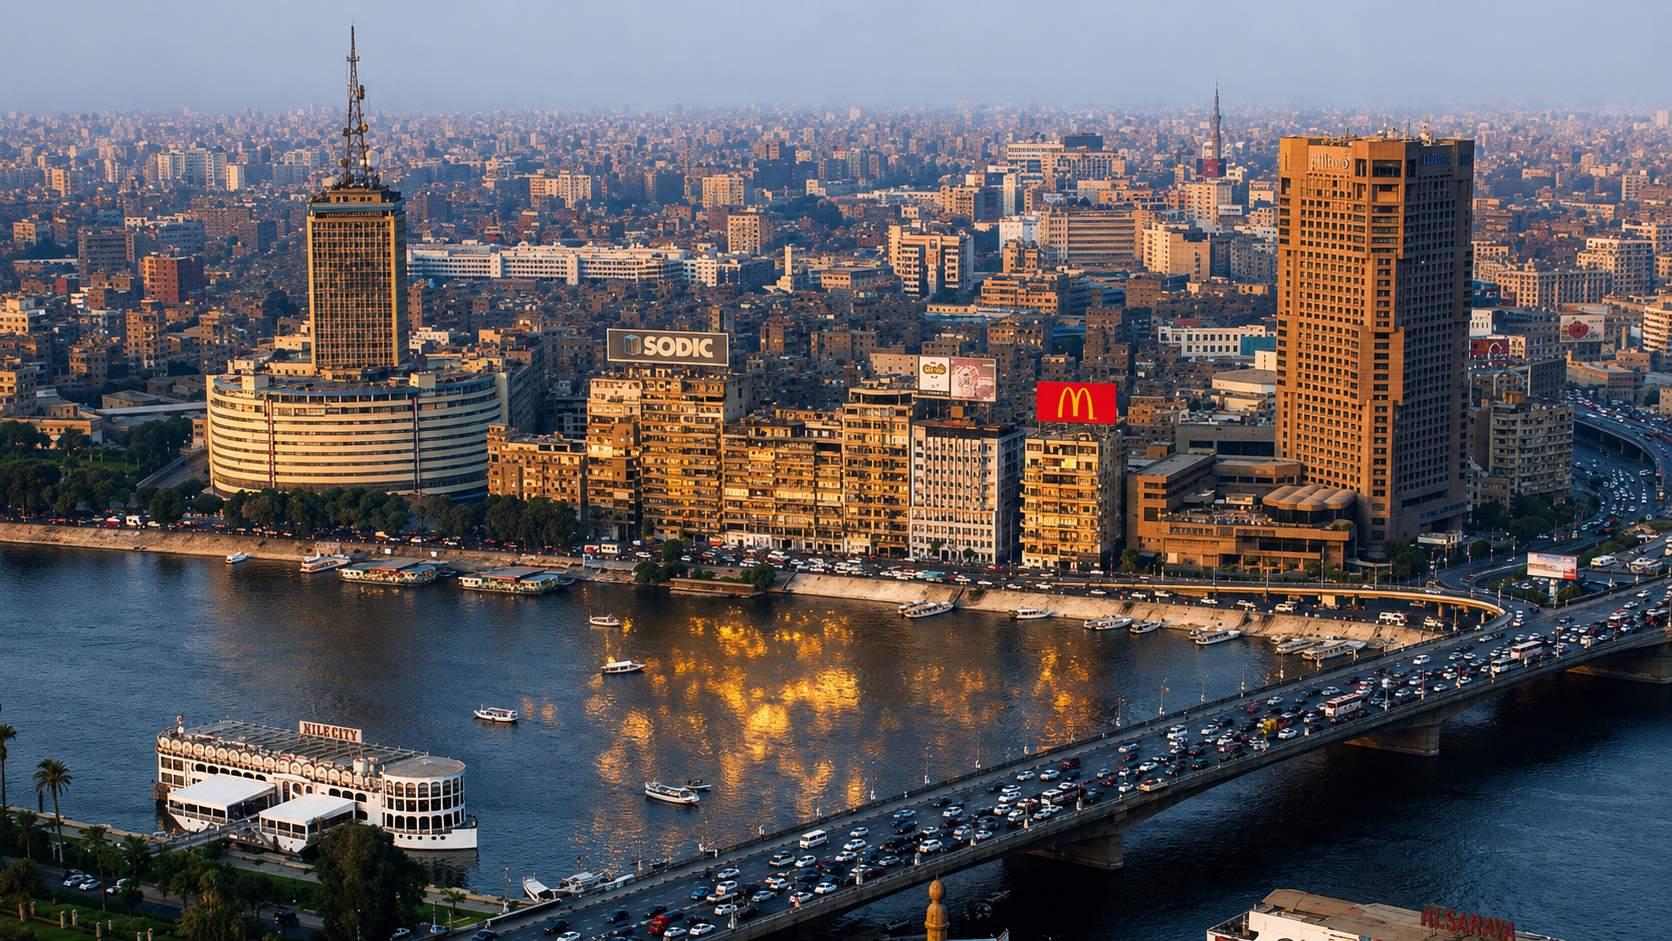
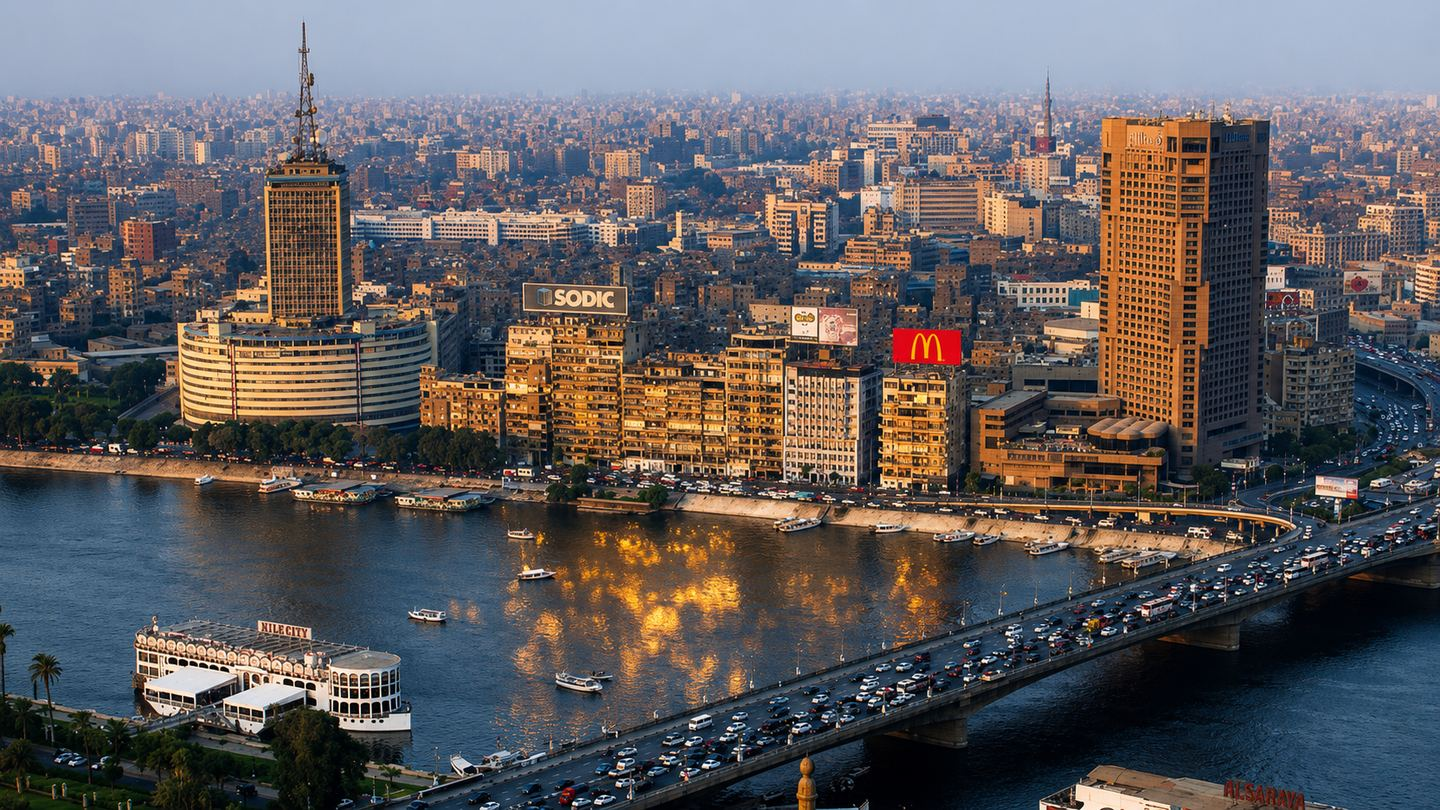
Give "She Never Left Egypt Behind" a Cairo skyline photo background
Replaced the plain background behind the "A Legacy Chapter" / "She
Never Left Egypt Behind" section with the supplied Cairo/Nile skyline
photo, scoped via aria-labelledby="never-h" since this section's own
class is the bare, shared .block (also used by five other sections on
this page).

Reused the exact light-cream-overlay pattern already established for
the "Why Dr. Akoury Matters" section (rgba(250,246,237,.8)) rather than
a dark scrim, since this section is dark-on-light text just like that
one -- bumped to .82 opacity because this particular photo carries more
high-contrast detail (signage, cars, water reflections) that would
otherwise compete with the heading and body text, including the bold
"identity, experience and responsibility" phrase.

Recompressed the source photo in place (3.0MB, 1672x941 -> ~286KB,
1440x810 JPEG) before wiring it in, matching this page's existing
background-photo convention; it isn't referenced anywhere else in the
repo so there was no other consumer to preserve at the original size.

The image placeholder figure below the text needed no styling changes
-- its existing gold-tinted border and dark navy fill already read as
a deliberate box against the new photo.

Verified at desktop/tablet/mobile and in Arabic RTL: text stays fully
readable at every breakpoint, the photo crops sensibly via
center/cover, and the placeholder box doesn't look disconnected from
the new backdrop. No other section of the page was touched.
[…]

diff --git a/Dr.Akoury-Egypt.html b/Dr.Akoury-Egypt.html
@@ -181,6 +181,23 @@
 #main section.block.alt[aria-labelledby="matters-h"]::before{content:"";position:absolute;inset:0;background:rgba(250,246,237,.8)}
 #main section.block.alt[aria-labelledby="matters-h"] .wrap{position:relative;z-index:1}
 
+/* She Never Left Egypt Behind — Cairo/Nile skyline photo background.
+   Scoped via aria-labelledby, same reasoning as matters-h above: this
+   section's own class is the bare, shared .block (also used by audience,
+   forty, pathways, ecosystem and network), so neither the class nor a
+   fresh id was available to scope on safely.
+   Text is dark-on-light here too, so the same light cream film is used
+   rather than a dark scrim -- kept a touch more opaque (.82 vs .8) than
+   the hieroglyph treatment since this photo carries more high-contrast
+   detail (signage, cars, water reflections) that would otherwise compete
+   with the heading/body text. The placeholder figure below the text
+   already has its own gold-tinted border and dark navy fill (see .ph),
+   so it reads as a deliberate box against the photo with no changes
+   needed there. */
+#main section.block[aria-labelledby="never-h"]{position:relative;background:url('images/cairoskyline-About-dr.akoury.jpg') center/cover no-repeat}
+#main section.block[aria-labelledby="never-h"]::before{content:"";position:absolute;inset:0;background:rgba(250,246,237,.82)}
+#main section.block[aria-labelledby="never-h"] .wrap{position:relative;z-index:1}
+
 /* Open Door — decorative flanking pillars, sized to run the full height
    of the section (top edge to bottom edge) with the now-compressed
    460px text column reading as an inscribed strip between them. Height
